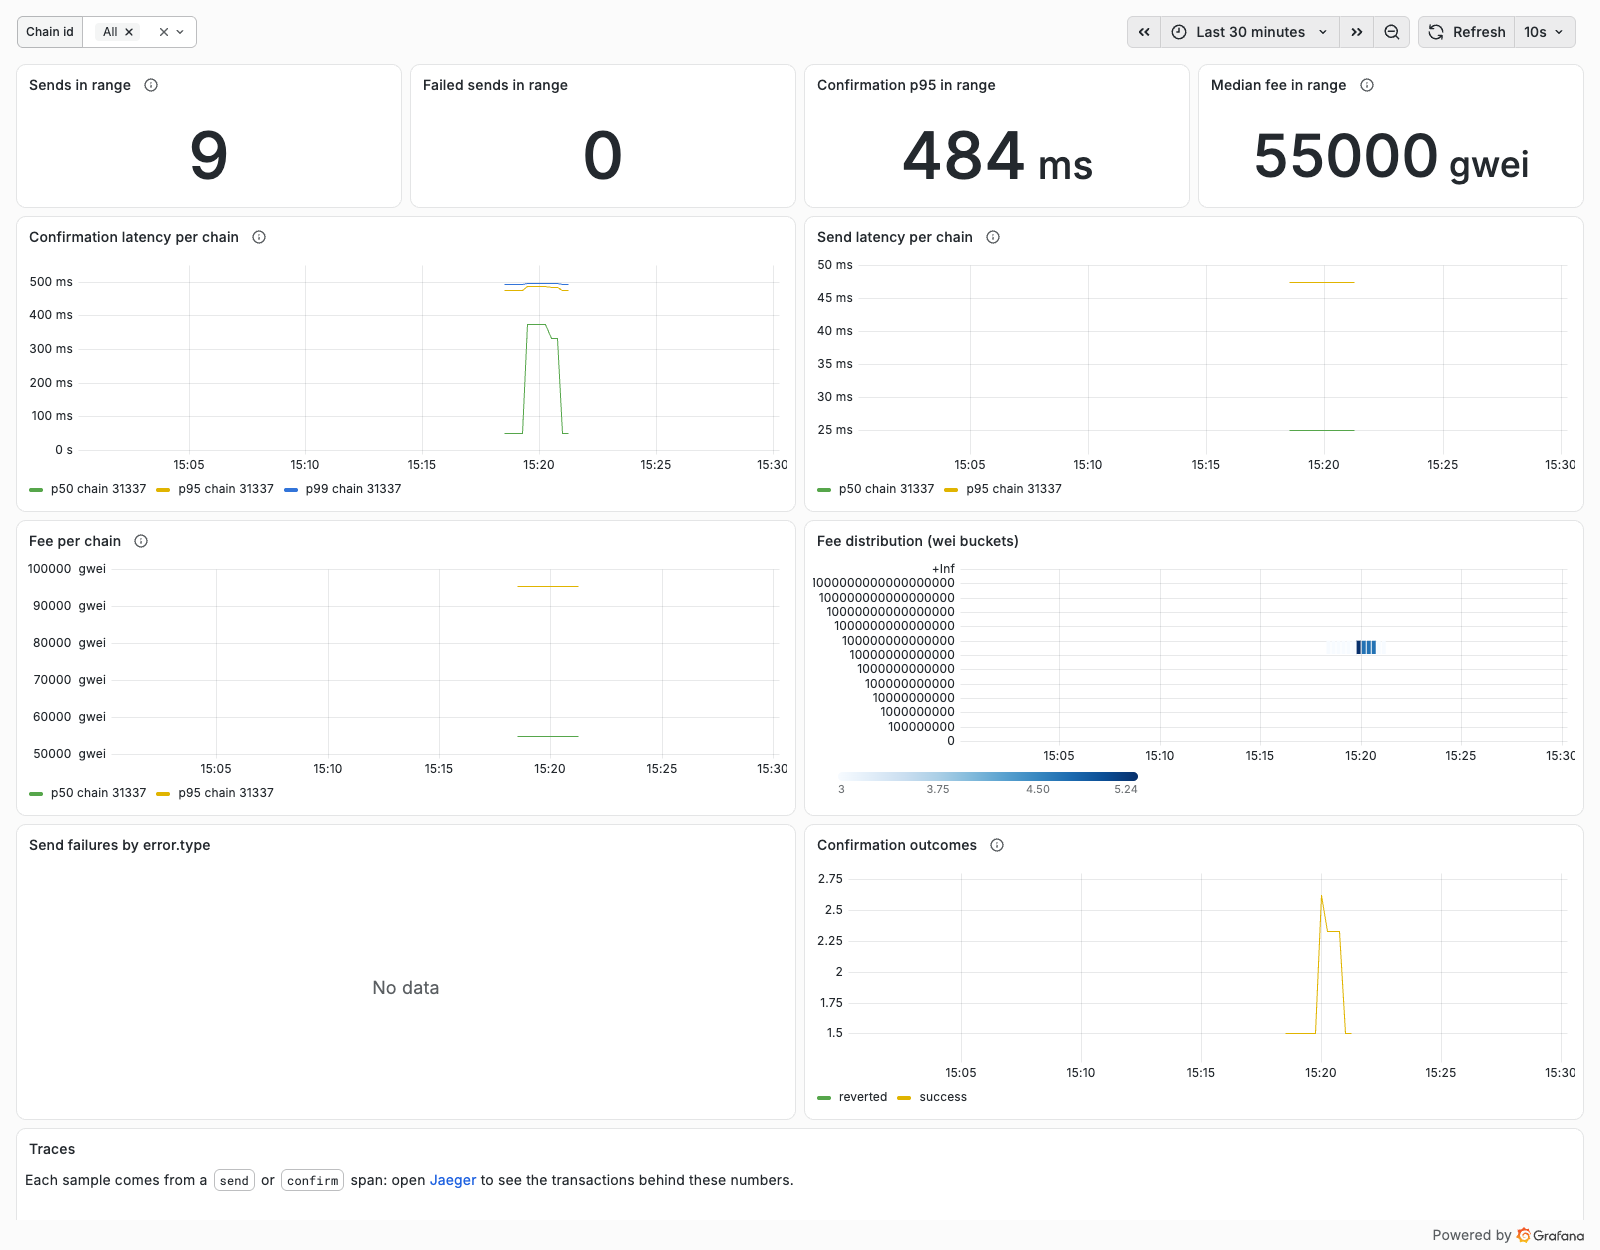
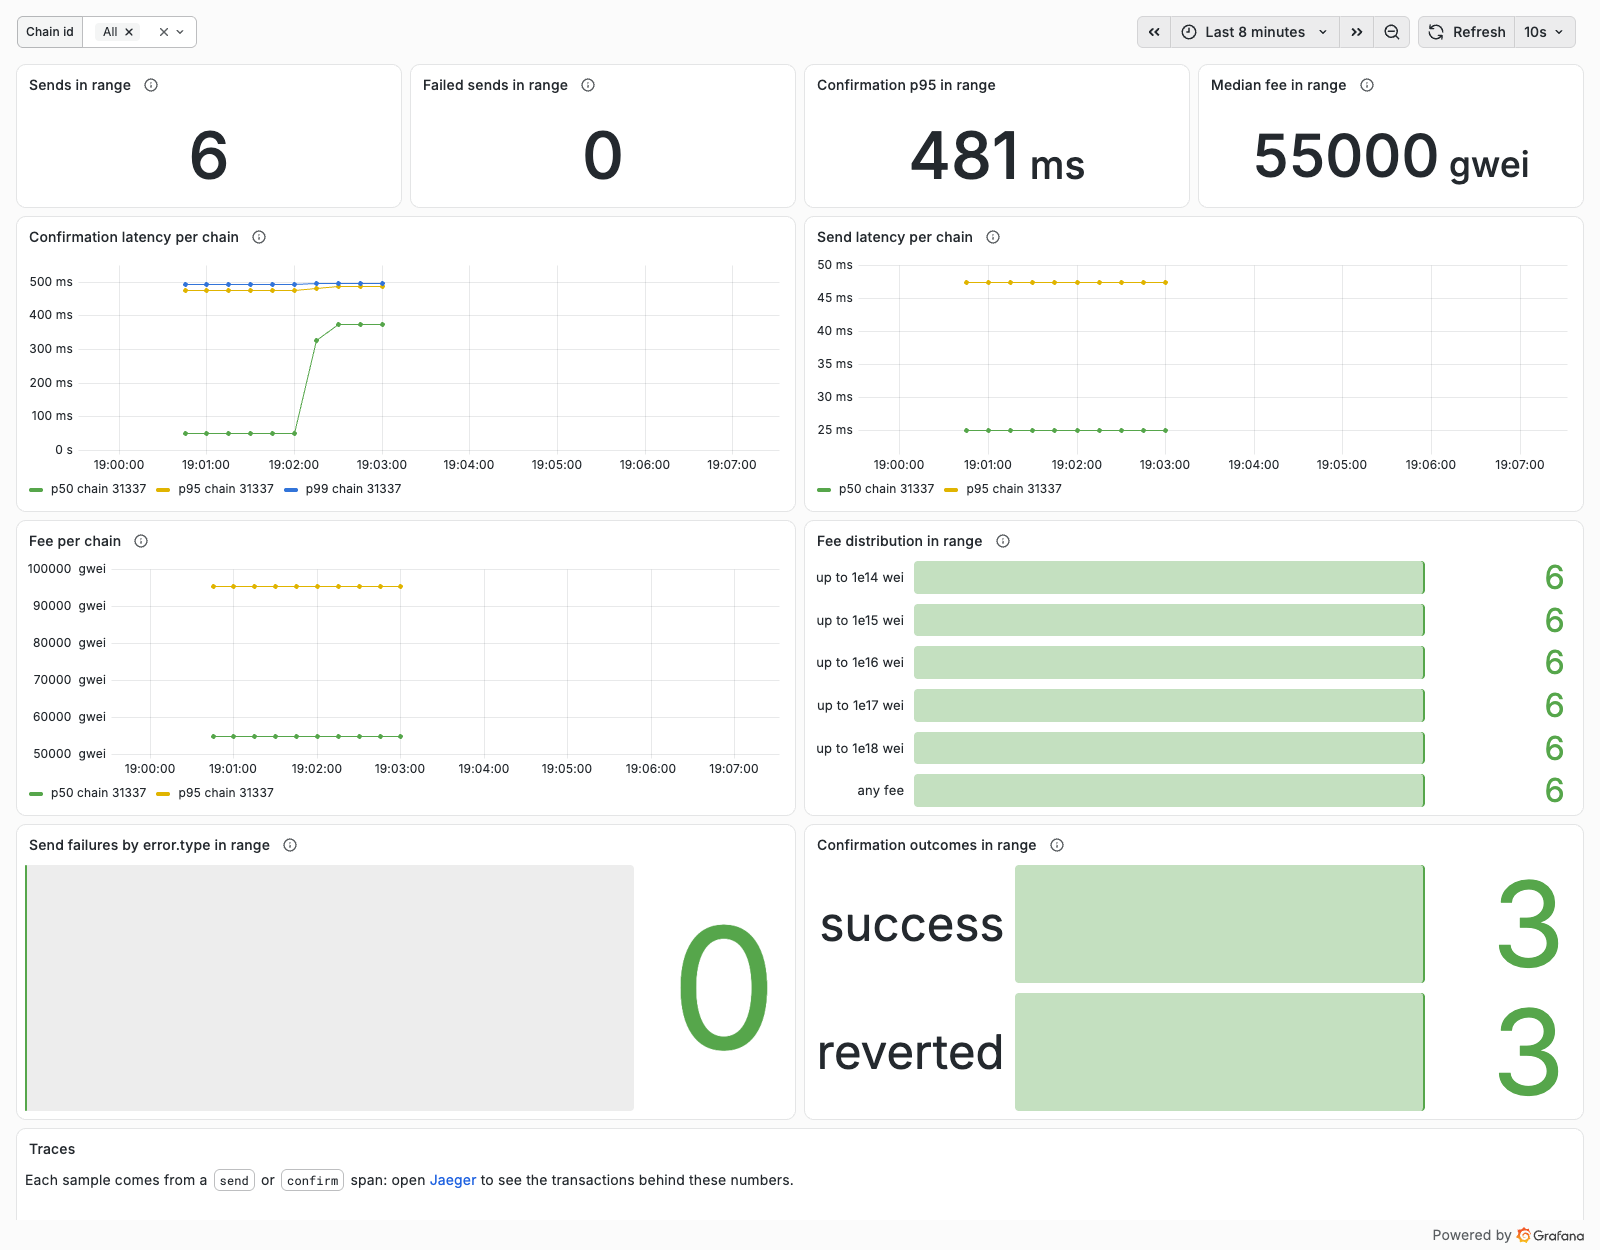
fix(lab): count sends in range exactly on the dashboard (#270)

diff --git a/examples/ai-sdk-agent/src/telemetry.ts b/examples/ai-sdk-agent/src/telemetry.ts
@@ -22,11 +22,14 @@ import { registerTelemetry } from 'ai';
 /**
  * The service the spans belong to: `treasury-agent`, unless `OTEL_SERVICE_NAME` or `OTEL_RESOURCE_ATTRIBUTES` say
  * otherwise. A `NodeTracerProvider` does not read those variables by itself (`NodeSDK` does), so they are detected here.
+ * Each run gets its own `service.instance.id`, unless the environment sets one: its metrics are then a series of their
+ * own that starts at zero, so a backend can count one run's sends exactly instead of across restarts.
  */
 export function telemetryResource(): Resource {
-  return resourceFromAttributes({ [ATTR_SERVICE_NAME]: 'treasury-agent' }).merge(
-    detectResources({ detectors: [envDetector] }),
-  );
+  return resourceFromAttributes({
+    [ATTR_SERVICE_NAME]: 'treasury-agent',
+    'service.instance.id': crypto.randomUUID(),
+  }).merge(detectResources({ detectors: [envDetector] }));
 }
 
 /**

diff --git a/examples/ai-sdk-agent/test/telemetry.test.ts b/examples/ai-sdk-agent/test/telemetry.test.ts
@@ -28,6 +28,16 @@ describe('telemetryResource', () => {
     expect(attributes[ATTR_SERVICE_NAME]).toBe('from-attributes');
     expect(attributes['deployment.environment.name']).toBe('staging');
   });
+
+  it('gives each run its own service.instance.id unless the environment sets one', () => {
+    vi.stubEnv('OTEL_RESOURCE_ATTRIBUTES', '');
+    const first = telemetryResource().attributes['service.instance.id'];
+    const second = telemetryResource().attributes['service.instance.id'];
+    expect(first).toMatch(/^[0-9a-f-]{36}$/);
+    expect(second).not.toBe(first);
+    vi.stubEnv('OTEL_RESOURCE_ATTRIBUTES', 'service.instance.id=fixed');
+    expect(telemetryResource().attributes['service.instance.id']).toBe('fixed');
+  });
 });
 
 describe('startMetrics', () => {

diff --git a/docs/backends.md b/docs/backends.md
@@ -107,8 +107,12 @@ metrics over OTLP to a Prometheus-compatible backend and import the file:
 - Prometheus needs `--web.enable-otlp-receiver` and turns `blockchain.client.send.duration` (unit `s`) into
   `blockchain_client_send_duration_seconds` and attributes into labels such as `blockchain_chain_id` and
   `error_type`, as in [`docker/prometheus.yml`](../docker/prometheus.yml).
-- A process that exports only once before it exits, such as a short script, leaves one sample per series, and
-  `rate()` needs two: the lab enables `--enable-feature=created-timestamp-zero-ingestion`, so Prometheus adds a zero
-  sample at each series' start time. Long-running agents need neither.
+- The counts for the selected range (sends, failures, outcomes, the fee distribution) are the rise of each counter
+  within the range, without the extrapolation of `increase()`, which turns a short run into fractional or inflated
+  counts. They are exact when each process is a series of its own that starts at zero: give each run its own
+  `service.instance.id`, as the example agent does, and, for a process that exports only once before it exits, let
+  Prometheus add a zero sample at each series' start (`--enable-feature=created-timestamp-zero-ingestion`, enabled in
+  the lab). A long-running process restarted under the same `service.instance.id` resets its counters, and the counts
+  then miss the sends before the restart.
 - The dashboard's data source is the one with uid `hashspan-prometheus`; pick yours when you import it.
 
